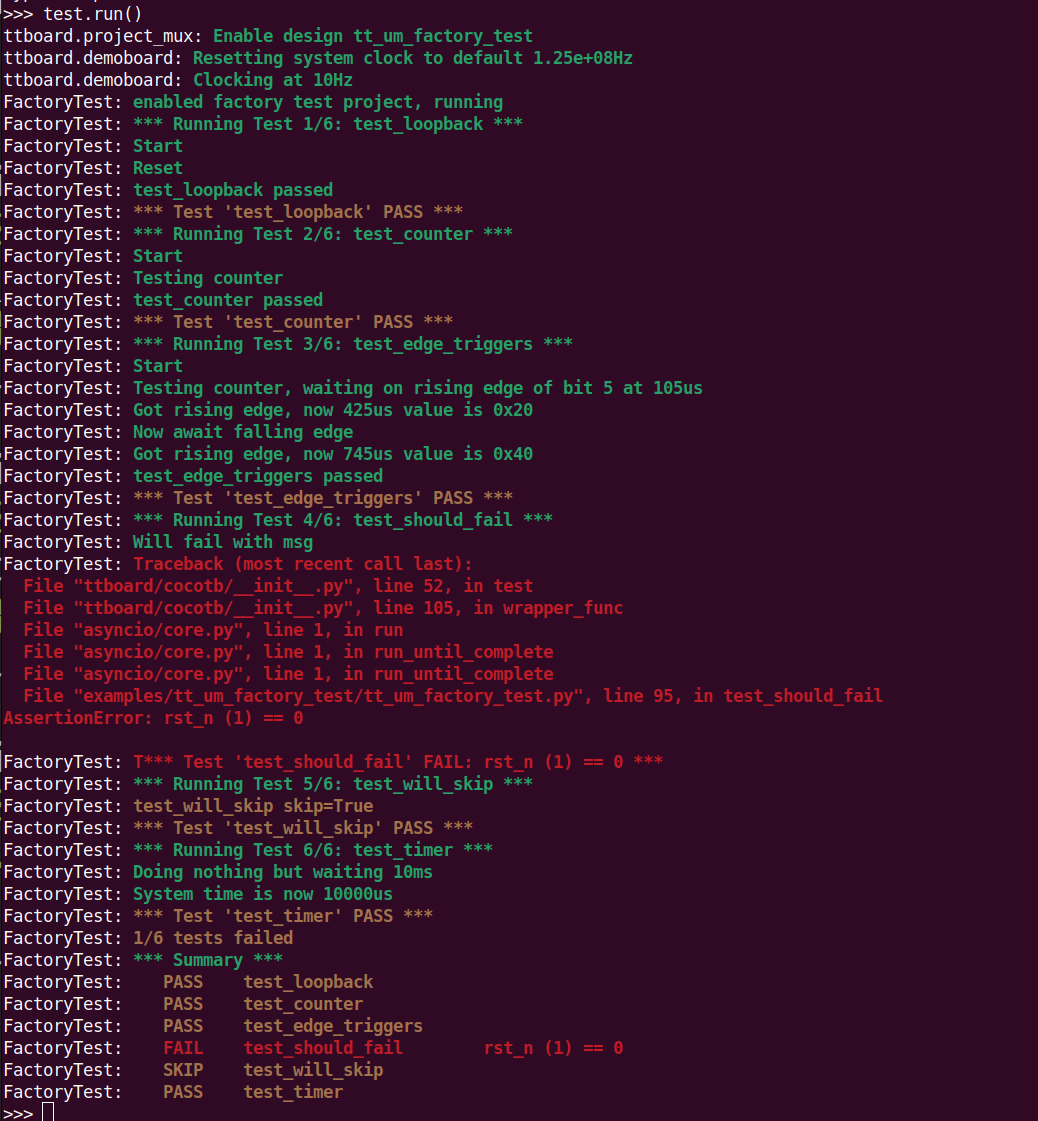
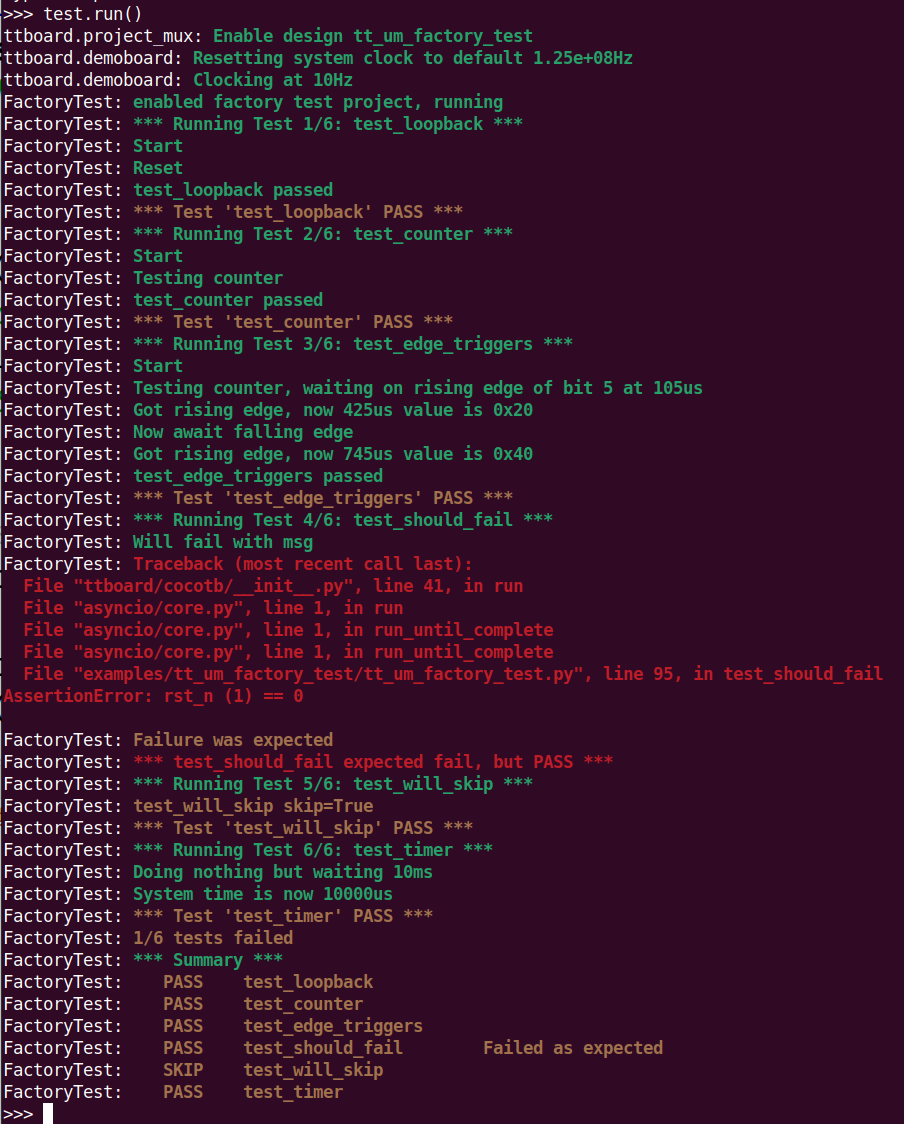
update to note test() supported args

Changed region(s): [[0.0, 0.0, 0.9602, 1.0], [0.5265, 0.9054, 0.7434, 0.9367], [0.7434, 0.3434, 0.7743, 0.3747]]

diff --git a/src/examples/tt_um_factory_test/tt_um_factory_test.py b/src/examples/tt_um_factory_test/tt_um_factory_test.py
@@ -87,7 +87,7 @@ async def test_edge_triggers(dut):
     
     dut._log.info("test_edge_triggers passed")
         
-@cocotb.test()
+@cocotb.test(expect_fail=True)
 async def test_should_fail(dut):
     
     dut._log.info("Will fail with msg")
@@ -97,8 +97,14 @@ async def test_should_fail(dut):
 @cocotb.test(skip=True)
 async def test_will_skip(dut):
     dut._log.info("This should not be output!")
+
+# DISABLED cocotb.test(timeout_time=100, timeout_unit='us', expect_fail=True)
+async def test_timeout(dut):
+    clock = Clock(dut.clk, 10, units="us")
+    cocotb.start_soon(clock.start())
     
-        
+    await Timer(200, 'us')
+    
 @cocotb.test()
 async def test_timer(dut):
     dut._log.info("Doing nothing but waiting 10ms")

diff --git a/src/examples/README.md b/src/examples/README.md
@@ -82,7 +82,7 @@ If, for example, the project verilog sets
 Then, in your test, you would set
 
 ```
-	dut.uio_oe_pico = 0x0f # 0b00001111 high nibble in, low nibble out
+    dut.uio_oe_pico = 0x0f # 0b00001111 high nibble in, low nibble out
 ```
 
 
@@ -119,7 +119,7 @@ In addition, though this is as of yet unsupported in cocotb v2 (I've submitted p
 
 The SDK cocotb implementation supports
 
-  * @cocotb.test() detection, with all optional parameters (though as of now only name, and skip are respected)
+  * @cocotb.test() detection, with all optional parameters (though as of name, expect_fail, timeout_* and skip are respected)
     
   * setting up one or more clocks using Clock() and cocotb.start_soon()
     
